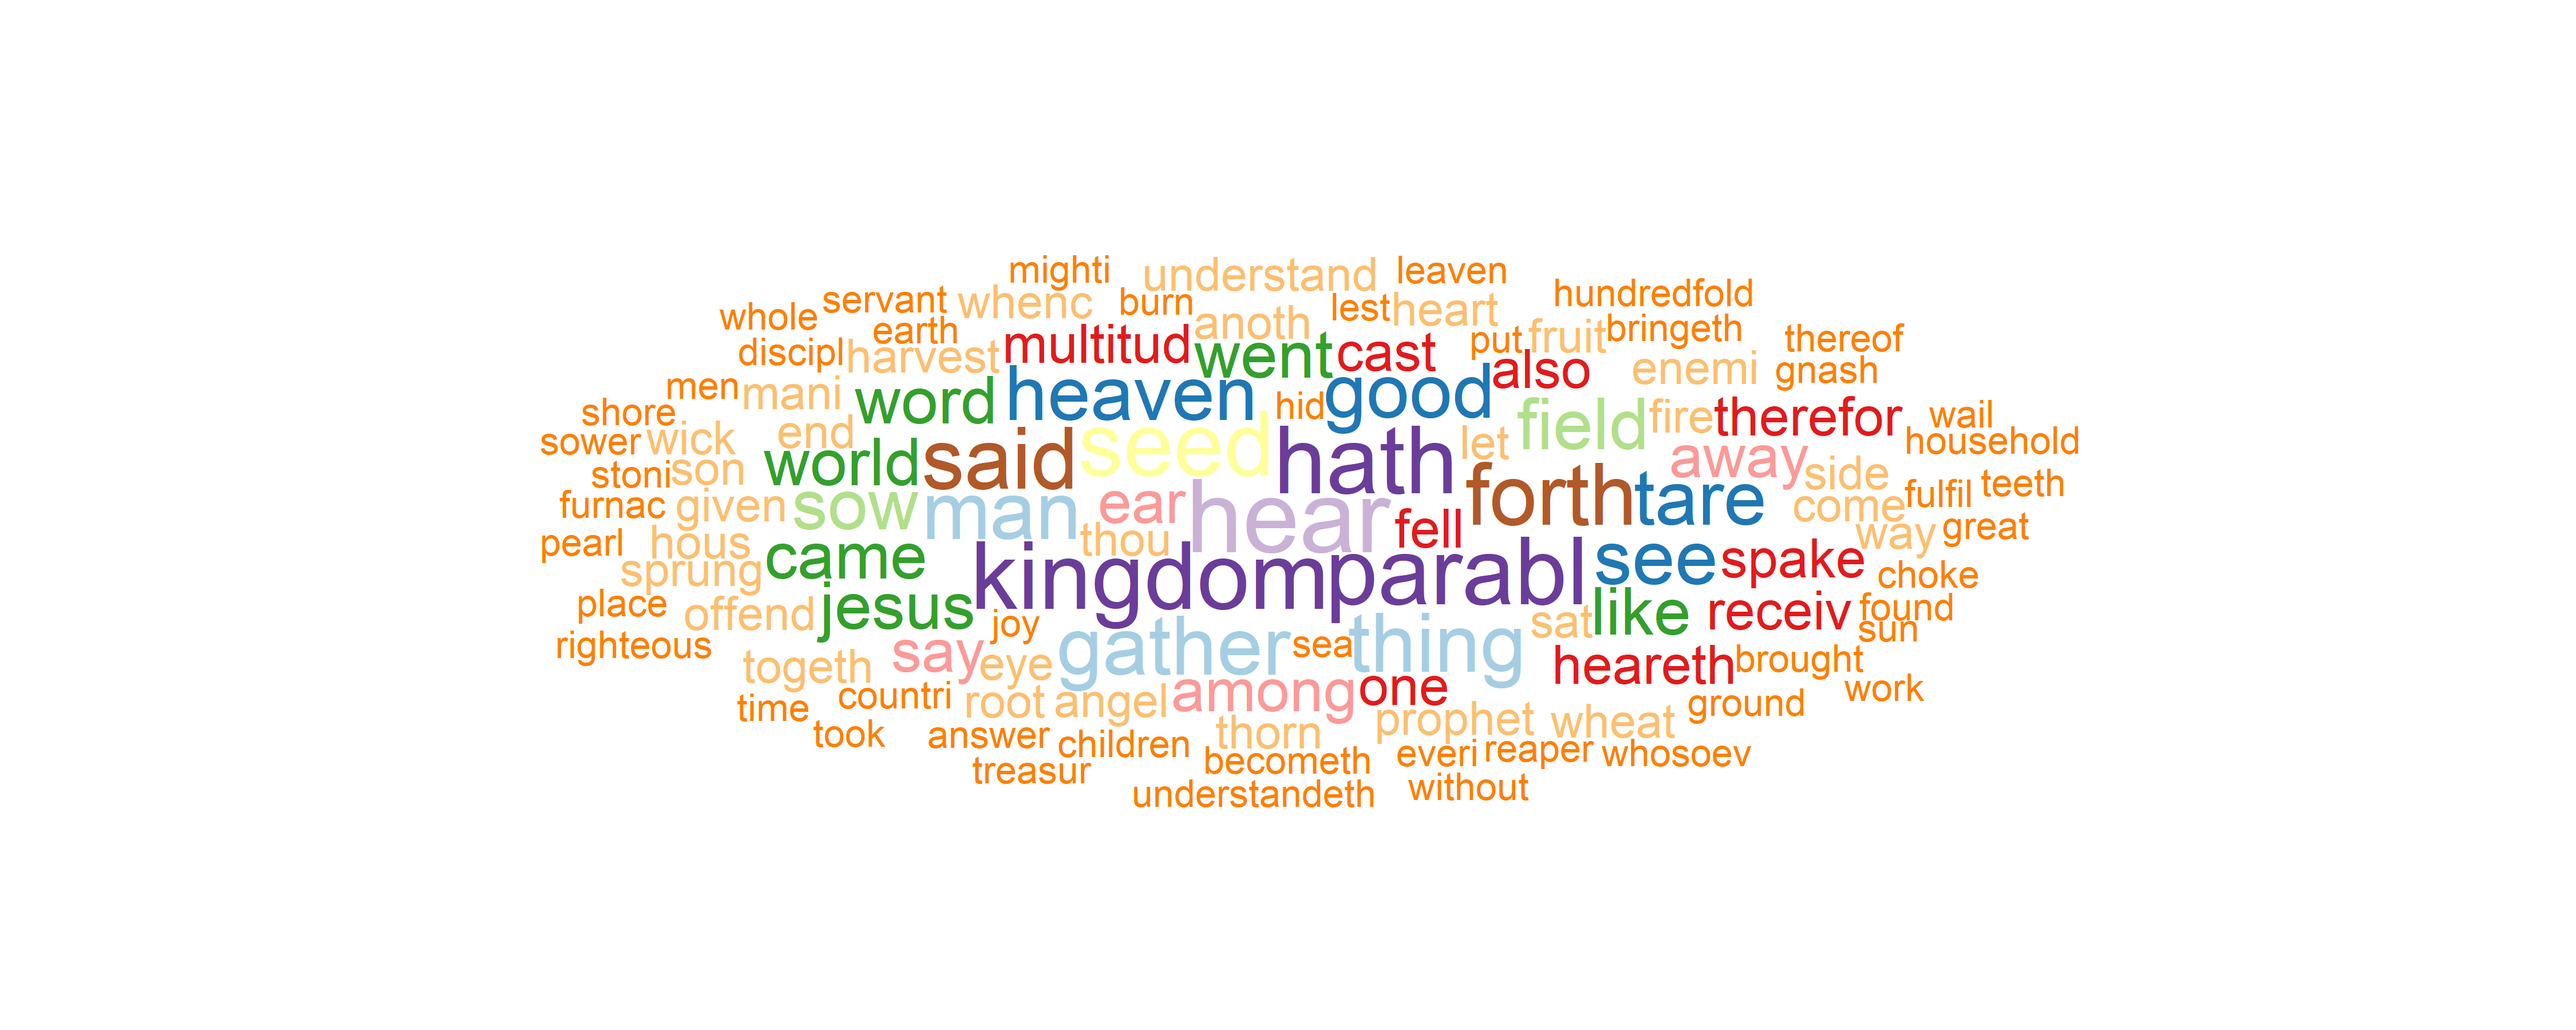
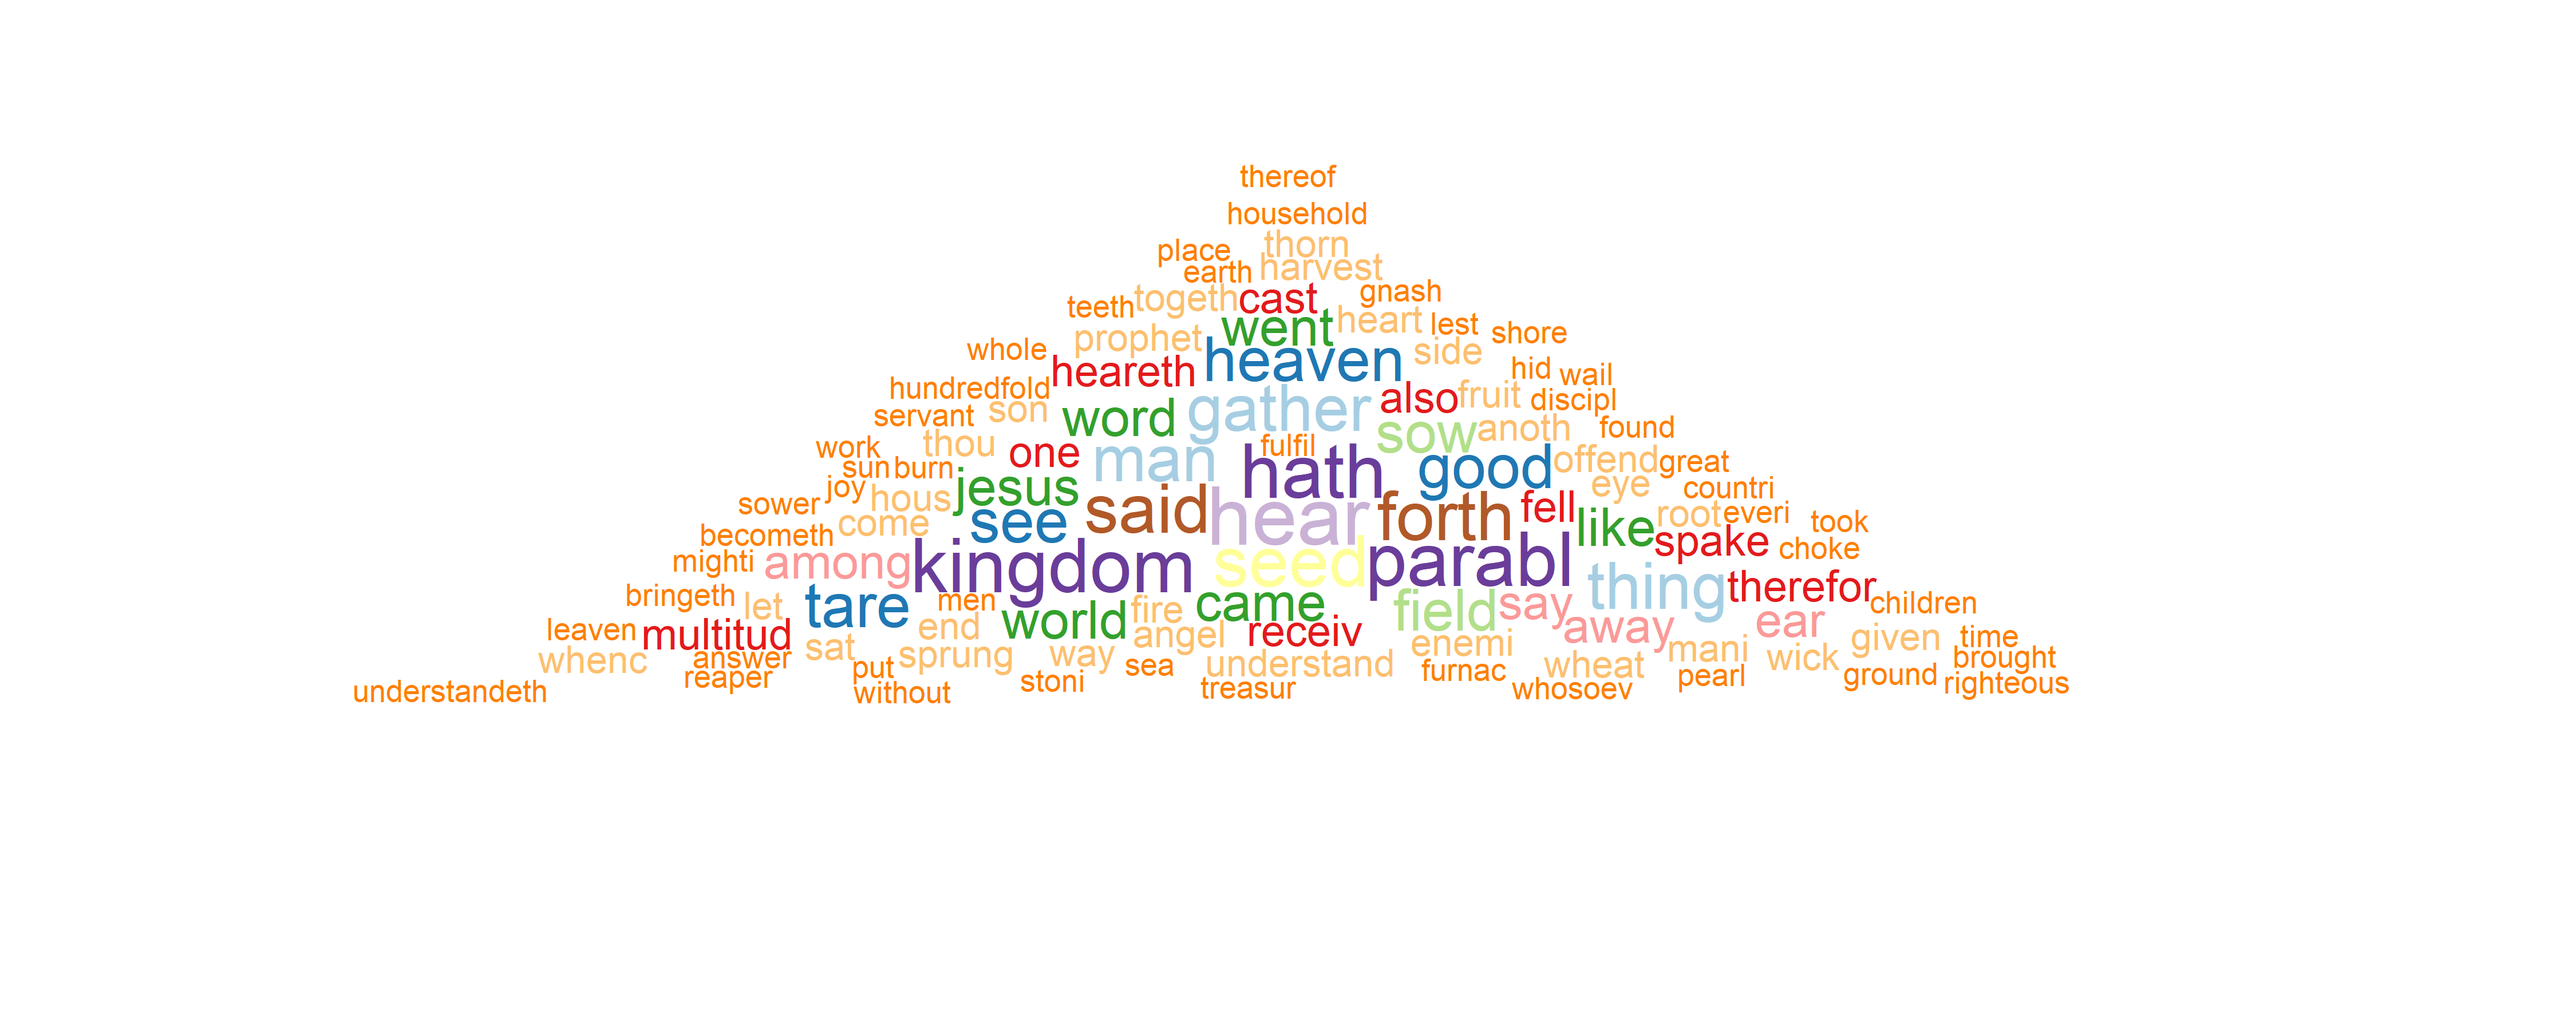
change picture format, readme files

Changed region(s): [[0.1244, 0.1556, 0.8089, 0.7778]]

diff --git a/README.md b/README.md
@@ -1,56 +1,24 @@
-# Personal data projects
+# Book_Cohen_R
 
-Use this template repo for your personal data projects. Would you please use the following format for your repository? Please name your repository in your personal space using the following naming structure `[title]-[lastname]-[languagesused]`.  You will then complete a pull request to move your personal data projects into our organization.
-
-- __Project Purpose:__ Take one to two paragraphs to explain your goals.  Why did you use this data? What skills are you going to demonstrate? Did you do this work for a client? 
-- __Tools used:__ Provide an overview of the programming languages and packages you leveraged for this work.  You could provide links to the pertinent reading material that you leveraged to complete the job. Provide links to your final scripts stored in your repository.
-- __Results:__ This is your conclusion.  Explain why your work matters.  How could others use it?  What are your next steps? Show some key findings.
+- __Project Purpose:__ 
+    This project goal was demonstating visualization and learning to use other's code and packages from github. I was inspired by code from STAT 4030: Programming in R Class which Shelby Taylor showed how to find the most common words in a book. I wanted to see if this was possible to do with the Bible and make a visualitation out of it. This was all for a personal curiousity of the data and visualization aspect, not for any client, but I hope to improve it to use once for church. 
+- __Tools used:__ 
+    The whole project is in R. All my code is on bible.r script[scripts/bible.R]. I used the R-package from github called sacred[https://github.com/JohnCoene/sacred] This was a test of skills as I have never used github packages before, learning quickly how to connect to vscode instead of using my own data or built in R packages. I referenced code from Shelby Taylor that is in the end of the bible.r script and used code from this website[https://semba-blog.netlify.app/11/06/2019/looking-at-the-bible-through-wordcloud-in-r/]. I realized later that the script was breaking down tibbles of the text in the sacred package. This was something we learned later in the STAT 4490: Special Topics in Statistics with Jay Hathaway, so I was able to understand that part of the code later. I also learned how to play around with the different arguments in the ggworldcloud from ggplot in R.
+- __Results:__ 
+    The conclusion is that using the ggwordcloud is not as simple as it looks. One of the issues I ran into was some of the words being cut off in the picture. I unfortunately could not fix this at the moment, but I still see the visualization as something useful. For a church, it could draw attention to a sermon they will speak on the following week. In general, knowing the most common words to different texts could help with people doing advertising to know what is most important for people to see or understand from any field. 
+    My next steps would be to fix the graphic to see the full words, and if another package is made with a different version of the Bible, try this to see if there would be any differences. 
 
 ## Folder structure
 
 ```
 - readme.md
 - scripts
----- readme.md (short description of each script)
----- data_munge.R
----- data_munge.py
----- eda.R
----- model.py
+---- bible.R
+---- readme.md
 - data (less than 100 Mb)
----- readme.md (links to data larger than 100 Mb and data details.)
----- crimes.csv
----- visits.json
+---- readme.md 
 - documents
----- readme.md (notes while doing your project)
----- mlmethod.pdf
----- api_guide.pdf
+---- readme.md 
+---- original_word_cloud.png 
+---- word_cloud.png 
 ```
-
-## Writing about data science
-
-[Thusan's article on how writing about data science is not easy](https://towardsdatascience.com/lets-admit-it-writing-about-data-science-is-not-easy-37a376777d36) could be helpful as you document your project and skills.
-
-## Data sources
-
-You don't need to make these projects complicated. These projects are built to show your work using the skills you have developed during the course. I would make sure that these are presentable in your Github space. You want to demonstrate your creativity. You could use the following links to find a new data set. 
-
-- [FiveThirtyEight](https://github.com/fivethirtyeight/data)
-- [TidyTuesday](https://github.com/rfordatascience/tidytuesday)
-- [WorkoutWednesday](http://www.workout-wednesday.com/)
-- [Kaggle](https://www.kaggle.com/datasets)
-- [data.world](https://data.world/search?context=community&entryTypeLabel=dataset&q=free+data&type=all)
-
-## Github pages
-
-It would help if you took the time to publish your repo for easier viewing of the files.  Please follow the directions at [Github pages](https://pages.github.com/) to build your pages footprint on the internet.
-
-## Questions
-
-### Is the expectation of our personal projects similar to that of the class projects we are completing?
-
-Yes & No. Here are a few points to highlight the comparison
-
-1. Three different data sets is the main criteria. Hopefully different challenges to your skills and the data can be in the same area for all three if you desire.
-2. You can choose the language. Please choose based on where you want employment.
-3. We don't get much into the story telling with our class projects.  But, I would hope you tell a story that includes some graphs and analysis.
-4. Think of these as sales pitches for future employment. Your personal projects should be in your own Github space.

diff --git a/scripts/readme.md b/scripts/readme.md
@@ -1,8 +1,10 @@
 
 The script that I have is using R programming. 
 
-I drew inspiration from Shelby Taylor's code in the STAT4030 R in programming class and from the webiste [https://semba-blog.netlify.app/11/06/2019/looking-at-the-bible-through-wordcloud-in-r/]
+I drew inspiration and code from Shelby Taylor's code in the STAT4030 R in programming class and from the webiste [https://semba-blog.netlify.app/11/06/2019/looking-at-the-bible-through-wordcloud-in-r/]
 
 The first section of code is finding the most used words in the Bible that are not stop words, like "the, a, an..."
 
-The second section of code is using the most used words in the book of Revelation to make a word cloud in two different orientations. 
+The second section of code is using the most used words in the book of Matthew 13 to make a word cloud in two different orientations. 
+
+The third section of commented out code is the reference from Shelby Taylor's code using the Jane Austen books dataset from built in package from R. 

diff --git a/data/readme.md b/data/readme.md
@@ -1,4 +1,4 @@
 
-The data I used for my project was both from a built in R-package called sacred[https://github.com/JohnCoene/sacred]. I specifically used the dataset of the King James Version Bible. 
+The data I used for my project was both from the R-package on github called sacred[https://github.com/JohnCoene/sacred]. I specifically used the dataset of the King James Version Bible. 
 
-I choose this dataset because being a Chrisitan, I was intrested in seeing the make up of the Bible. 
+I choose this dataset because being a Chrisitan, I was intrested in seeing characteristics of the Bible. 

diff --git a/documents/readme.md b/documents/readme.md
@@ -1,5 +1,5 @@
 
 -original_word_cloud.png : picture of the word cloud from most used words in Mt 13
 
--word_cloud.png : rotated picture of the word cloud from most used words in Mt 13
+-word_cloud.png : picture with rotated words in the word cloud from most used words in Mt 13
 
